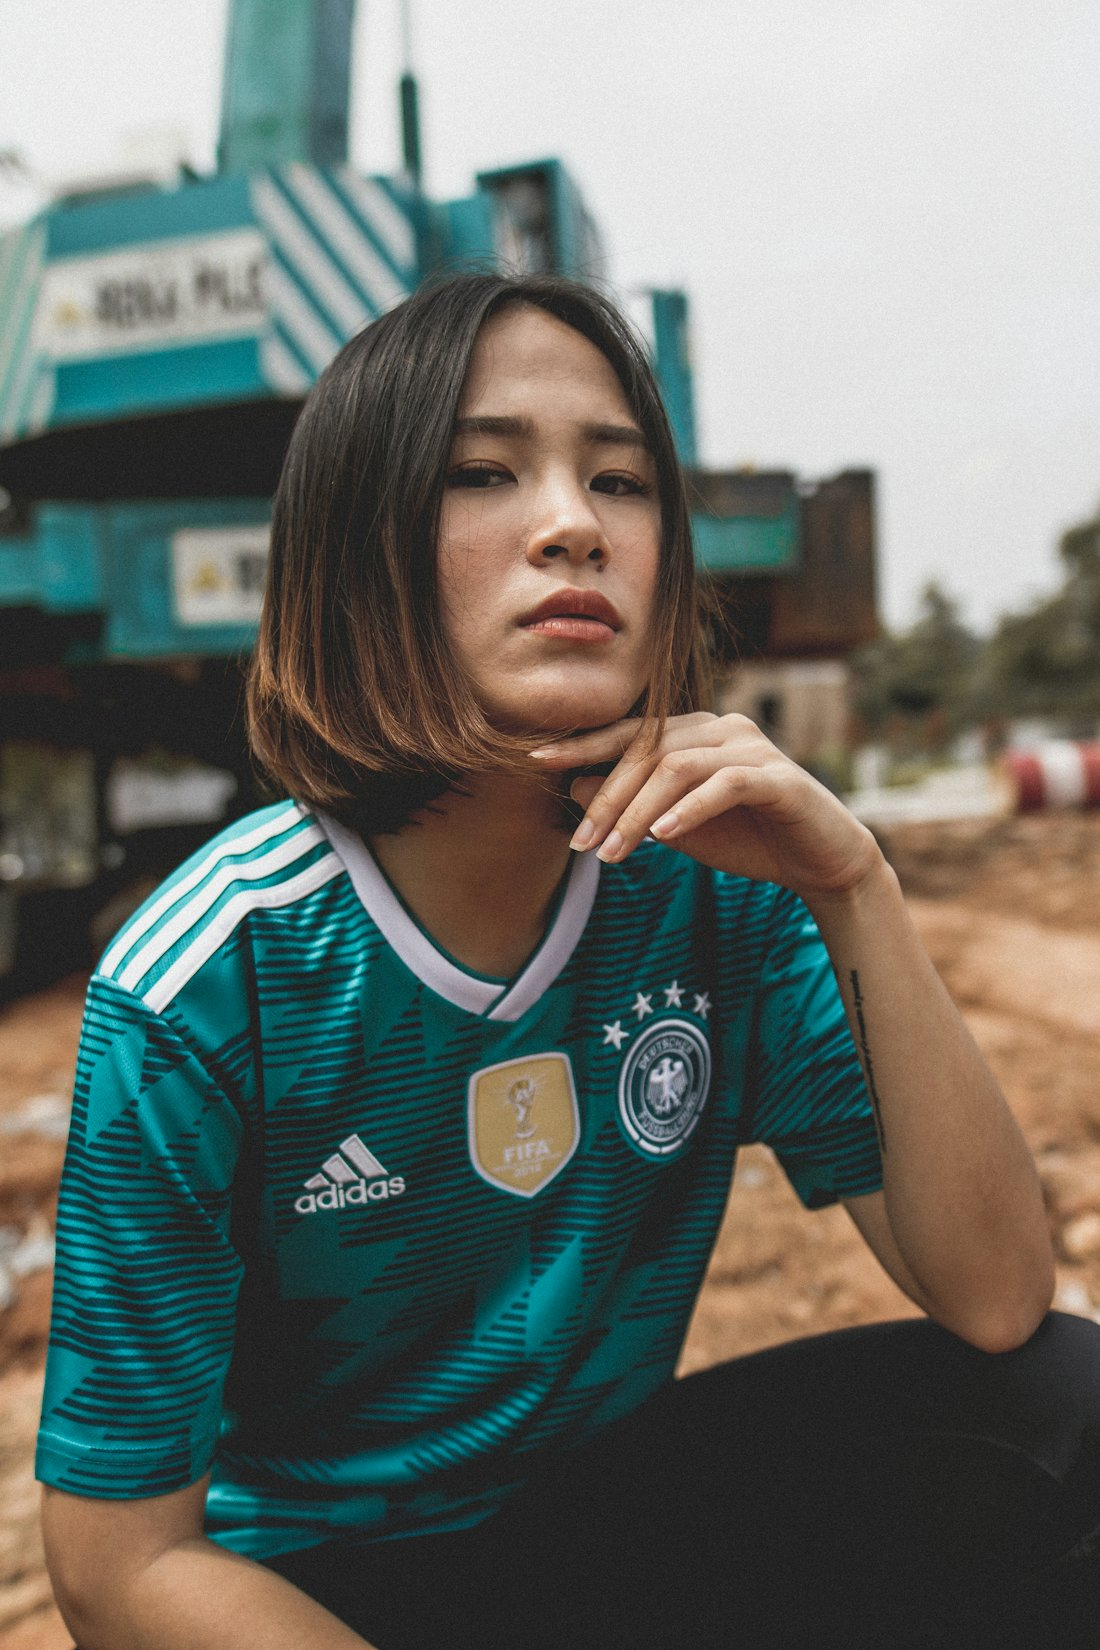
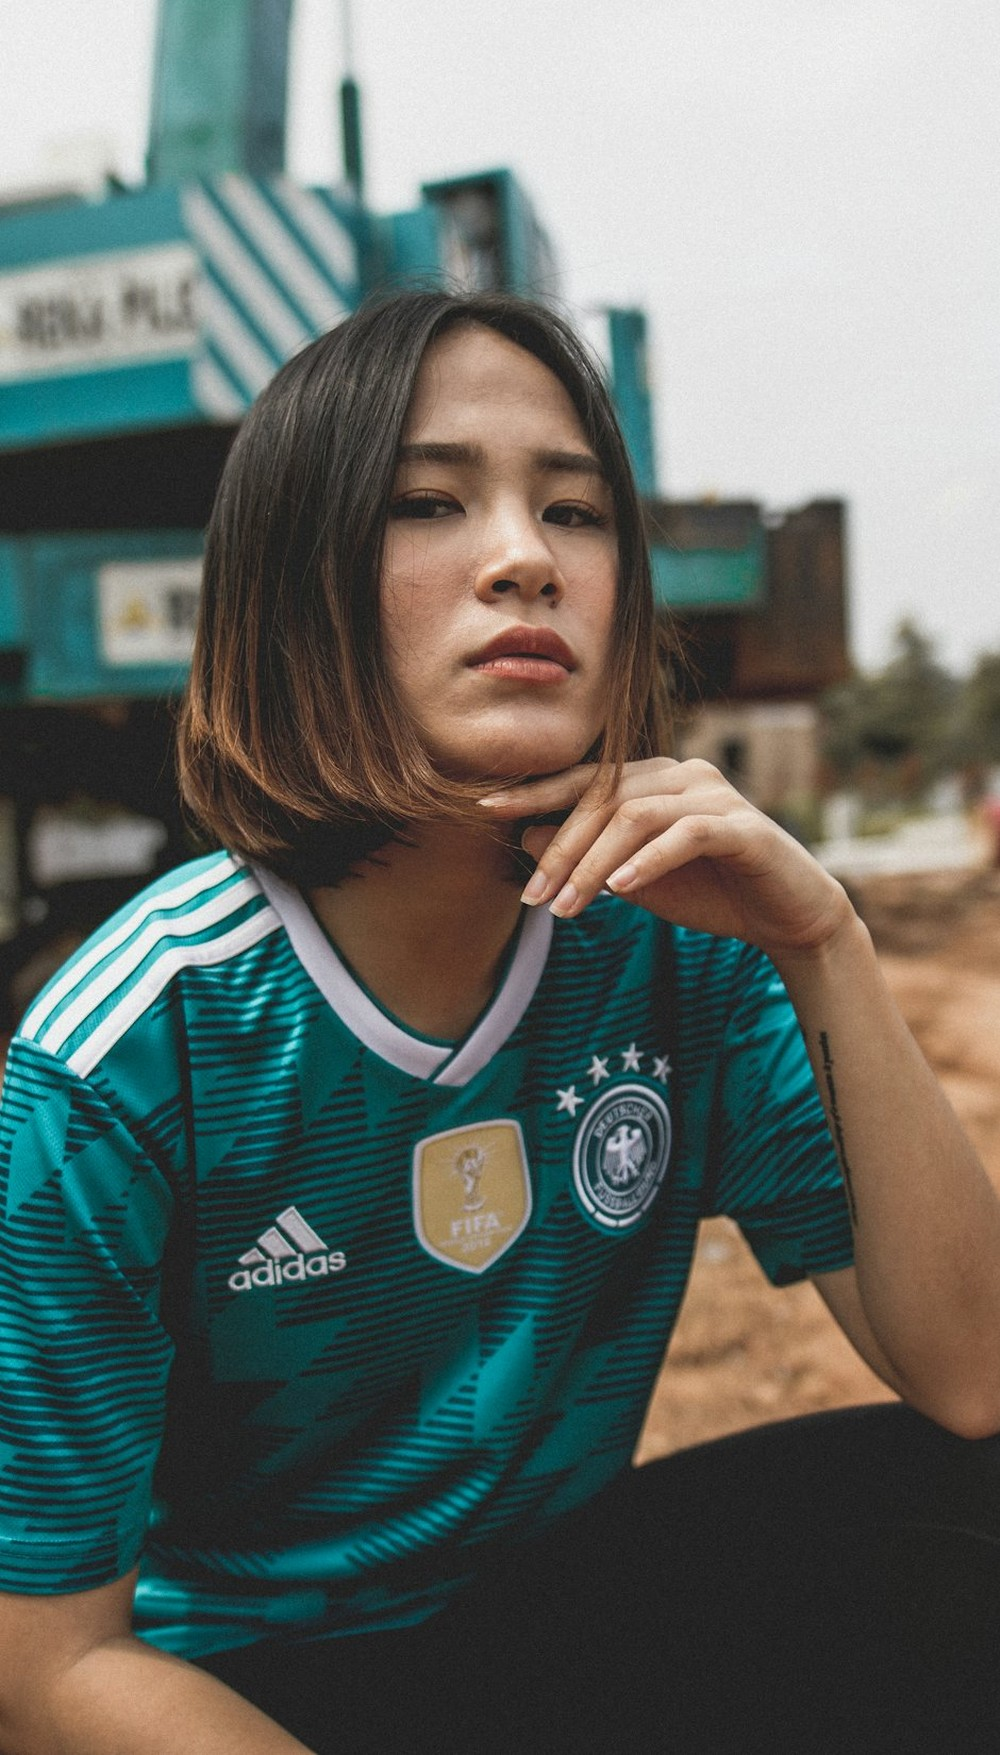
Ajustar imagenes del hero y actualizar numero de WhatsApp
- hero-bg-1.jpg recortada/redimensionada al mismo tamaño que hero-bg-2.jpg (1000x1755)
- Panel de foto del hero acotado en desktop (min-width 769px) para que la imagen
  llene su espacio con cover, sin dejar fondo negro detras del texto
- Numero de WhatsApp actualizado a +598 92990732 en todas las paginas publicas y cart.js

Claude-Session: https://claude.ai/code/session_01RdVus2qPeGt2DWGN6DMYnw

diff --git a/index.html b/index.html
@@ -105,6 +105,10 @@
   .hero-photo { position: absolute; inset: 0; background-size: contain; background-repeat: no-repeat; opacity: 0; animation: hero-crossfade 12s infinite; }
   .hero-photo-1 { background-image: url('hero-bg-1.jpg'); background-position: right center; animation-delay: 0s; }
   .hero-photo-2 { background-image: url('hero-bg-2.jpg'); background-position: right center; animation-delay: 6s; }
+  @media (min-width: 769px) {
+    .hero-photos { left: auto; right: 0; width: min(45%, 620px); }
+    .hero-photo { background-size: cover; background-position: center 20%; }
+  }
   @keyframes hero-crossfade {
     0% { opacity: 0; }
     8% { opacity: 1; }
@@ -295,7 +299,7 @@
     <p class="hero-sub">Encontrá tu camiseta favorita al mejor precio. Alta calidad, despacho inmediato y atención personalizada.</p>
     <div class="hero-ctas">
       <a href="catalogo.html" class="btn-primary">Ver catálogo</a>
-      <a href="https://wa.me/598098037399?text=Hola%2C%20quiero%20hacer%20un%20pedido" class="btn-outline" target="_blank">Hacer pedido</a>
+      <a href="https://wa.me/59892990732?text=Hola%2C%20quiero%20hacer%20un%20pedido" class="btn-outline" target="_blank">Hacer pedido</a>
     </div>
     <div class="hero-stats">
       <div>
@@ -462,7 +466,7 @@
     <div class="section-eyebrow">¿Tenés alguna consulta?</div>
     <h2 class="contact-title">HABLÁ CON<br>UN <span>ASESOR</span></h2>
     <p class="contact-desc">Estamos para ayudarte a encontrar la camiseta que buscás. Contactanos por WhatsApp y te respondemos al instante.</p>
-    <a href="https://wa.me/598098037399?text=Hola%2C%20necesito%20ayuda!" class="btn-primary" target="_blank">Escribir por WhatsApp</a>
+    <a href="https://wa.me/59892990732?text=Hola%2C%20necesito%20ayuda!" class="btn-primary" target="_blank">Escribir por WhatsApp</a>
   </div>
   <div class="contact-cards">
     <div class="contact-card">
@@ -522,7 +526,7 @@
       gtag('event', 'generate_lead', { event_category: 'WhatsApp', event_label: producto, value: 1 });
     }
     const msg = encodeURIComponent(`Hola! Quiero comprar la camiseta: *${producto}* - Talle: *${selected.textContent.trim()}*`);
-    window.open('https://wa.me/598098037399?text=' + msg, '_blank');
+    window.open('https://wa.me/59892990732?text=' + msg, '_blank');
   }
 
   // Deshabilitar todos los botones comprar al inicio
@@ -582,7 +586,7 @@
 
 </script>
 <script src="cart.js"></script>
-<a href="https://wa.me/598098037399?text=Hola%2C%20quiero%20hacer%20una%20consulta" target="_blank" class="wa-float" title="Escribinos por WhatsApp">
+<a href="https://wa.me/59892990732?text=Hola%2C%20quiero%20hacer%20una%20consulta" target="_blank" class="wa-float" title="Escribinos por WhatsApp">
   <svg width="24" height="24" fill="currentColor" viewBox="0 0 24 24"><path d="M17.472 14.382c-.297-.149-1.758-.867-2.03-.967-.273-.099-.471-.148-.67.15-.197.297-.767.966-.94 1.164-.173.199-.347.223-.644.075-.297-.15-1.255-.463-2.39-1.475-.883-.788-1.48-1.761-1.653-2.059-.173-.297-.018-.458.13-.606.134-.133.298-.347.446-.52.149-.174.198-.298.298-.497.099-.198.05-.371-.025-.52-.075-.149-.669-1.612-.916-2.207-.242-.579-.487-.5-.669-.51-.173-.008-.371-.01-.57-.01-.198 0-.52.074-.792.372-.272.297-1.04 1.016-1.04 2.479 0 1.462 1.065 2.875 1.213 3.074.149.198 2.096 3.2 5.077 4.487.709.306 1.262.489 1.694.625.712.227 1.36.195 1.871.118.571-.085 1.758-.719 2.006-1.413.248-.694.248-1.289.173-1.413-.074-.124-.272-.198-.57-.347z"/><path d="M12 0C5.373 0 0 5.373 0 12c0 2.124.558 4.121 1.535 5.857L.057 23.522a.75.75 0 0 0 .921.921l5.666-1.478A11.955 11.955 0 0 0 12 24c6.627 0 12-5.373 12-12S18.627 0 12 0zm0 21.75a9.715 9.715 0 0 1-4.976-1.367l-.356-.213-3.696.964.984-3.595-.233-.37A9.712 9.712 0 0 1 2.25 12C2.25 6.615 6.615 2.25 12 2.25S21.75 6.615 21.75 12 17.385 21.75 12 21.75z"/></svg>
   <span>¿Necesitás ayuda?</span>
 </a>

diff --git a/selecciones.html b/selecciones.html
@@ -207,7 +207,7 @@
     const selected = card.querySelector('.size-btn.selected');
     if (!selected) return;
     const msg = encodeURIComponent(`Hola! Quiero comprar la camiseta: *${producto}* - Talle: *${selected.textContent.trim()}*`);
-    window.open('https://wa.me/598098037399?text=' + msg, '_blank');
+    window.open('https://wa.me/59892990732?text=' + msg, '_blank');
   }
   document.querySelectorAll('.btn-buy').forEach(btn => {
     btn.disabled = true;
@@ -274,7 +274,7 @@
 <script src="catalog.js"></script>
 <script>RGOLCatalog.renderCategoria('#productGrid', 'selecciones', 'filtro_selecciones');</script>
 <script src="cart.js"></script>
-<a href="https://wa.me/598098037399?text=Hola%2C%20quiero%20hacer%20una%20consulta" target="_blank" class="wa-float" title="Escribinos por WhatsApp">
+<a href="https://wa.me/59892990732?text=Hola%2C%20quiero%20hacer%20una%20consulta" target="_blank" class="wa-float" title="Escribinos por WhatsApp">
   <svg width="24" height="24" fill="currentColor" viewBox="0 0 24 24"><path d="M17.472 14.382c-.297-.149-1.758-.867-2.03-.967-.273-.099-.471-.148-.67.15-.197.297-.767.966-.94 1.164-.173.199-.347.223-.644.075-.297-.15-1.255-.463-2.39-1.475-.883-.788-1.48-1.761-1.653-2.059-.173-.297-.018-.458.13-.606.134-.133.298-.347.446-.52.149-.174.198-.298.298-.497.099-.198.05-.371-.025-.52-.075-.149-.669-1.612-.916-2.207-.242-.579-.487-.5-.669-.51-.173-.008-.371-.01-.57-.01-.198 0-.52.074-.792.372-.272.297-1.04 1.016-1.04 2.479 0 1.462 1.065 2.875 1.213 3.074.149.198 2.096 3.2 5.077 4.487.709.306 1.262.489 1.694.625.712.227 1.36.195 1.871.118.571-.085 1.758-.719 2.006-1.413.248-.694.248-1.289.173-1.413-.074-.124-.272-.198-.57-.347z"/><path d="M12 0C5.373 0 0 5.373 0 12c0 2.124.558 4.121 1.535 5.857L.057 23.522a.75.75 0 0 0 .921.921l5.666-1.478A11.955 11.955 0 0 0 12 24c6.627 0 12-5.373 12-12S18.627 0 12 0zm0 21.75a9.715 9.715 0 0 1-4.976-1.367l-.356-.213-3.696.964.984-3.595-.233-.37A9.712 9.712 0 0 1 2.25 12C2.25 6.615 6.615 2.25 12 2.25S21.75 6.615 21.75 12 17.385 21.75 12 21.75z"/></svg>
   <span>¿Necesitás ayuda?</span>
 </a>

diff --git a/equipos.html b/equipos.html
@@ -208,7 +208,7 @@
     const selected = card.querySelector('.size-btn.selected');
     if (!selected) return;
     const msg = encodeURIComponent(`Hola! Quiero comprar la camiseta: *${producto}* - Talle: *${selected.textContent.trim()}*`);
-    window.open('https://wa.me/598098037399?text=' + msg, '_blank');
+    window.open('https://wa.me/59892990732?text=' + msg, '_blank');
   }
   document.querySelectorAll('.btn-buy').forEach(btn => {
     btn.disabled = true;
@@ -275,7 +275,7 @@
 <script src="catalog.js"></script>
 <script>RGOLCatalog.renderCategoria('#productGrid', 'equipos', 'filtro_equipos');</script>
 <script src="cart.js"></script>
-<a href="https://wa.me/598098037399?text=Hola%2C%20quiero%20hacer%20una%20consulta" target="_blank" class="wa-float" title="Escribinos por WhatsApp">
+<a href="https://wa.me/59892990732?text=Hola%2C%20quiero%20hacer%20una%20consulta" target="_blank" class="wa-float" title="Escribinos por WhatsApp">
   <svg width="24" height="24" fill="currentColor" viewBox="0 0 24 24"><path d="M17.472 14.382c-.297-.149-1.758-.867-2.03-.967-.273-.099-.471-.148-.67.15-.197.297-.767.966-.94 1.164-.173.199-.347.223-.644.075-.297-.15-1.255-.463-2.39-1.475-.883-.788-1.48-1.761-1.653-2.059-.173-.297-.018-.458.13-.606.134-.133.298-.347.446-.52.149-.174.198-.298.298-.497.099-.198.05-.371-.025-.52-.075-.149-.669-1.612-.916-2.207-.242-.579-.487-.5-.669-.51-.173-.008-.371-.01-.57-.01-.198 0-.52.074-.792.372-.272.297-1.04 1.016-1.04 2.479 0 1.462 1.065 2.875 1.213 3.074.149.198 2.096 3.2 5.077 4.487.709.306 1.262.489 1.694.625.712.227 1.36.195 1.871.118.571-.085 1.758-.719 2.006-1.413.248-.694.248-1.289.173-1.413-.074-.124-.272-.198-.57-.347z"/><path d="M12 0C5.373 0 0 5.373 0 12c0 2.124.558 4.121 1.535 5.857L.057 23.522a.75.75 0 0 0 .921.921l5.666-1.478A11.955 11.955 0 0 0 12 24c6.627 0 12-5.373 12-12S18.627 0 12 0zm0 21.75a9.715 9.715 0 0 1-4.976-1.367l-.356-.213-3.696.964.984-3.595-.233-.37A9.712 9.712 0 0 1 2.25 12C2.25 6.615 6.615 2.25 12 2.25S21.75 6.615 21.75 12 17.385 21.75 12 21.75z"/></svg>
   <span>¿Necesitás ayuda?</span>
 </a>

diff --git a/retro.html b/retro.html
@@ -204,7 +204,7 @@
     const selected = card.querySelector('.size-btn.selected');
     if (!selected) return;
     const msg = encodeURIComponent(`Hola! Quiero comprar la camiseta: *${producto}* - Talle: *${selected.textContent.trim()}*`);
-    window.open('https://wa.me/598098037399?text=' + msg, '_blank');
+    window.open('https://wa.me/59892990732?text=' + msg, '_blank');
   }
   document.querySelectorAll('.btn-buy').forEach(btn => {
     btn.disabled = true;
@@ -271,7 +271,7 @@
 <script src="catalog.js"></script>
 <script>RGOLCatalog.renderCategoria('#productGrid', 'retro', 'filtro_retro');</script>
 <script src="cart.js"></script>
-<a href="https://wa.me/598098037399?text=Hola%2C%20quiero%20hacer%20una%20consulta" target="_blank" class="wa-float" title="Escribinos por WhatsApp">
+<a href="https://wa.me/59892990732?text=Hola%2C%20quiero%20hacer%20una%20consulta" target="_blank" class="wa-float" title="Escribinos por WhatsApp">
   <svg width="24" height="24" fill="currentColor" viewBox="0 0 24 24"><path d="M17.472 14.382c-.297-.149-1.758-.867-2.03-.967-.273-.099-.471-.148-.67.15-.197.297-.767.966-.94 1.164-.173.199-.347.223-.644.075-.297-.15-1.255-.463-2.39-1.475-.883-.788-1.48-1.761-1.653-2.059-.173-.297-.018-.458.13-.606.134-.133.298-.347.446-.52.149-.174.198-.298.298-.497.099-.198.05-.371-.025-.52-.075-.149-.669-1.612-.916-2.207-.242-.579-.487-.5-.669-.51-.173-.008-.371-.01-.57-.01-.198 0-.52.074-.792.372-.272.297-1.04 1.016-1.04 2.479 0 1.462 1.065 2.875 1.213 3.074.149.198 2.096 3.2 5.077 4.487.709.306 1.262.489 1.694.625.712.227 1.36.195 1.871.118.571-.085 1.758-.719 2.006-1.413.248-.694.248-1.289.173-1.413-.074-.124-.272-.198-.57-.347z"/><path d="M12 0C5.373 0 0 5.373 0 12c0 2.124.558 4.121 1.535 5.857L.057 23.522a.75.75 0 0 0 .921.921l5.666-1.478A11.955 11.955 0 0 0 12 24c6.627 0 12-5.373 12-12S18.627 0 12 0zm0 21.75a9.715 9.715 0 0 1-4.976-1.367l-.356-.213-3.696.964.984-3.595-.233-.37A9.712 9.712 0 0 1 2.25 12C2.25 6.615 6.615 2.25 12 2.25S21.75 6.615 21.75 12 17.385 21.75 12 21.75z"/></svg>
   <span>¿Necesitás ayuda?</span>
 </a>

diff --git a/catalogo.html b/catalogo.html
@@ -297,7 +297,7 @@
     const selected = card.querySelector('.size-btn.selected');
     if (!selected) return;
     const msg = encodeURIComponent(`Hola! Quiero comprar la camiseta: *${producto}* - Talle: *${selected.textContent.trim()}*`);
-    window.open('https://wa.me/598098037399?text=' + msg, '_blank');
+    window.open('https://wa.me/59892990732?text=' + msg, '_blank');
   }
 
     // LIGHTBOX
@@ -352,7 +352,7 @@
 <script src="catalog.js"></script>
 <script>RGOLCatalog.renderCatalogoCompleto('#productGrid');</script>
 <script src="cart.js"></script>
-<a href="https://wa.me/598098037399?text=Hola%2C%20quiero%20hacer%20una%20consulta" target="_blank" class="wa-float" title="Escribinos por WhatsApp">
+<a href="https://wa.me/59892990732?text=Hola%2C%20quiero%20hacer%20una%20consulta" target="_blank" class="wa-float" title="Escribinos por WhatsApp">
   <svg width="24" height="24" fill="currentColor" viewBox="0 0 24 24"><path d="M17.472 14.382c-.297-.149-1.758-.867-2.03-.967-.273-.099-.471-.148-.67.15-.197.297-.767.966-.94 1.164-.173.199-.347.223-.644.075-.297-.15-1.255-.463-2.39-1.475-.883-.788-1.48-1.761-1.653-2.059-.173-.297-.018-.458.13-.606.134-.133.298-.347.446-.52.149-.174.198-.298.298-.497.099-.198.05-.371-.025-.52-.075-.149-.669-1.612-.916-2.207-.242-.579-.487-.5-.669-.51-.173-.008-.371-.01-.57-.01-.198 0-.52.074-.792.372-.272.297-1.04 1.016-1.04 2.479 0 1.462 1.065 2.875 1.213 3.074.149.198 2.096 3.2 5.077 4.487.709.306 1.262.489 1.694.625.712.227 1.36.195 1.871.118.571-.085 1.758-.719 2.006-1.413.248-.694.248-1.289.173-1.413-.074-.124-.272-.198-.57-.347z"/><path d="M12 0C5.373 0 0 5.373 0 12c0 2.124.558 4.121 1.535 5.857L.057 23.522a.75.75 0 0 0 .921.921l5.666-1.478A11.955 11.955 0 0 0 12 24c6.627 0 12-5.373 12-12S18.627 0 12 0zm0 21.75a9.715 9.715 0 0 1-4.976-1.367l-.356-.213-3.696.964.984-3.595-.233-.37A9.712 9.712 0 0 1 2.25 12C2.25 6.615 6.615 2.25 12 2.25S21.75 6.615 21.75 12 17.385 21.75 12 21.75z"/></svg>
   <span>¿Necesitás ayuda?</span>
 </a>

diff --git a/cart.js b/cart.js
@@ -1,6 +1,6 @@
 /* ===== RGOL.UY — Carrito (paso previo a checkout real) ===== */
 (function () {
-  const WHATSAPP_NUMBER = '598098037399';
+  const WHATSAPP_NUMBER = '59892990732';
   const STORAGE_KEY = 'rgol_cart';
   const TRANSFER_DISCOUNT = 0.05; // -5% al pagar por transferencia
   let selectedMethod = 'mp';

diff --git a/gracias.html b/gracias.html
@@ -87,7 +87,7 @@
 </script>
 
 <script>
-  const WHATSAPP_NUMBER = '598098037399';
+  const WHATSAPP_NUMBER = '59892990732';
   const params = new URLSearchParams(window.location.search);
   const estado = params.get('estado');
 
